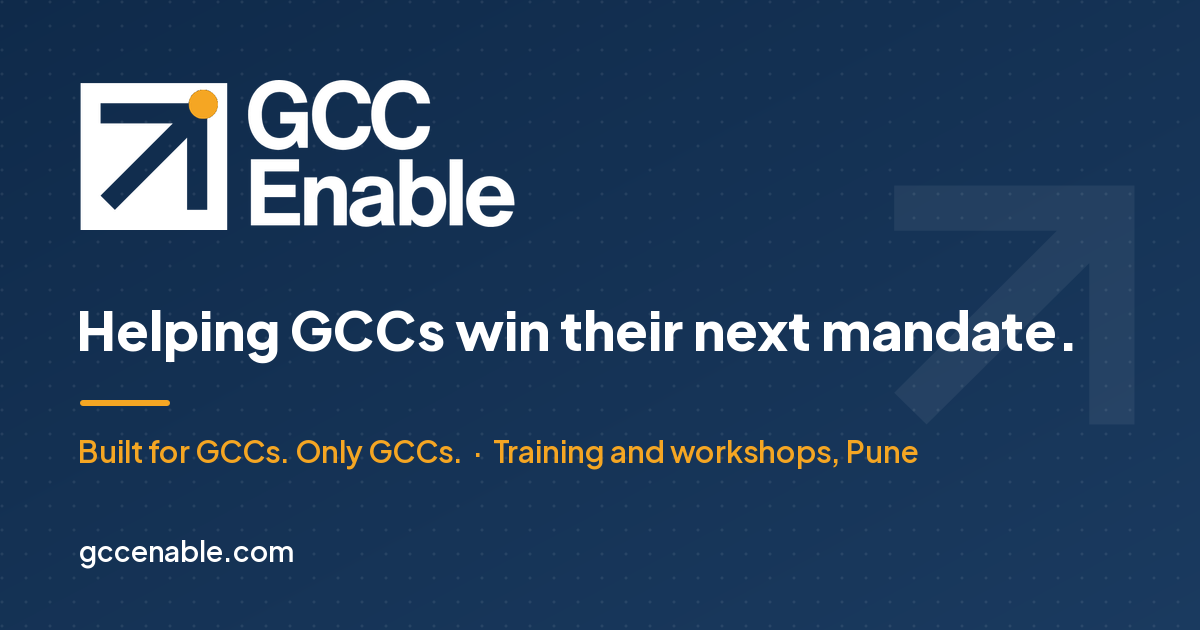
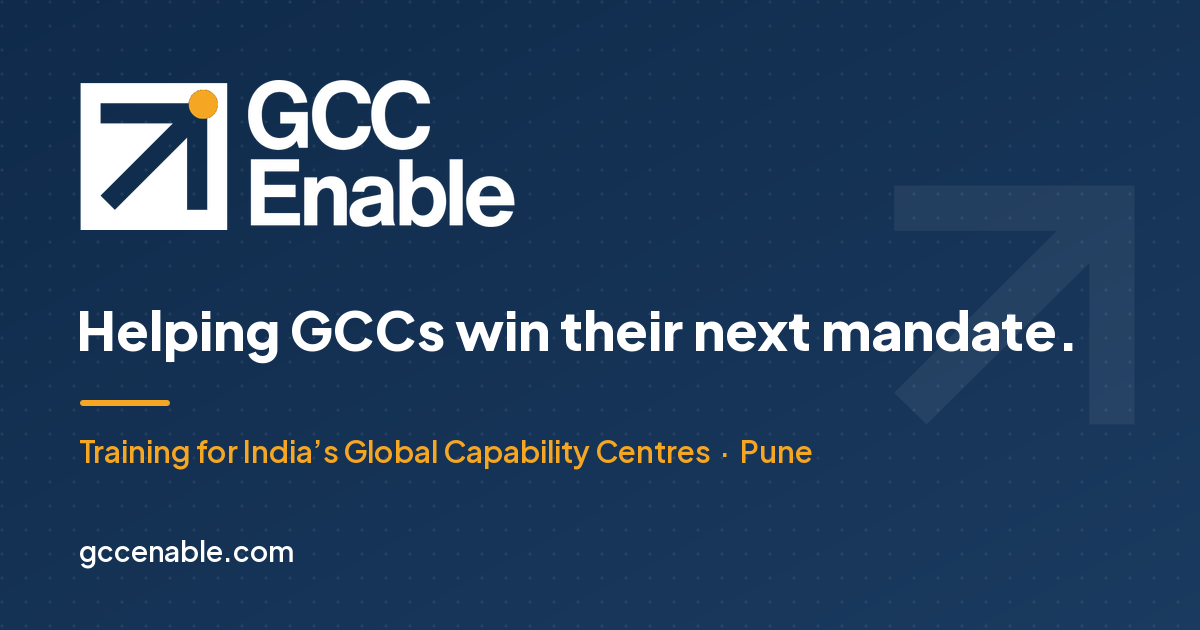
Spell out Global Capability Centres (GCCs) across the site
Home hero, title, top bar, stats, footer, programme and role pages, schema
knowsAbout, share image, and the description plus first mention in every
blog post, so GCC is not read as the Gulf Cooperation Council.

Changed region(s): [[0.0617, 0.6937, 0.7708, 0.754]]

diff --git a/src/data/content.ts b/src/data/content.ts
@@ -28,29 +28,29 @@ export const stats = [
     value: 2100,
     suffix: '+',
     decimals: 0,
-    label: 'GCCs in India, employing 2.36 million people',
+    label: 'Global Capability Centres (GCCs) in India, employing 2.36 million people',
     source: 'nasscom–Zinnov India GCC Landscape Report 2026',
   },
 ];
 
 export const puneStat = {
   value: '270+',
-  label: 'GCCs are based in Pune',
+  label: 'Global Capability Centres (GCCs) are based in Pune',
   source: 'KPMG–AmCham, Jun 2026',
 };
 
 export const home = {
   hero: {
-    tag: 'Training and workshops for India’s GCCs',
+    tag: 'Training for India’s Global Capability Centres',
     title: 'Helping GCCs win their next mandate.',
     subtitle:
-      'Practical training and workshops that build the leaders, managers and AI-ready teams your centre needs to take on bigger global responsibilities.',
-    trust: 'Built for GCCs. Only GCCs. · Based in Pune',
+      'Practical training and workshops that build the leaders, managers and AI-ready teams India’s Global Capability Centres (GCCs) need to take on bigger global responsibilities.',
+    trust: 'Only Global Capability Centres in India · Based in Pune',
   },
   problem: {
     title: 'Your mandate is growing. Is your talent model keeping up?',
     body: [
-      'India’s GCCs are no longer cost centres. HQ is handing over products, platforms and decisions, and expects the centre to lead on AI rather than follow.',
+      'India’s Global Capability Centres (GCCs) are no longer cost centres. HQ is handing over products, platforms and decisions, and expects the centre to lead on AI rather than follow.',
       'That raises the bar for everyone. Leaders need a clear view of AI. Managers need to own outcomes without escalating. New joiners need to perform in months, not quarters. Generic training catalogues were not built for any of this.',
     ],
     pains: [
@@ -99,7 +99,7 @@ export const home = {
   },
   formatsTitle: 'Formats that fit how your centre works',
   insightsTitle: 'From the GCC Enable channel',
-  insightsIntro: 'Short, practical conversations on running and growing a GCC in India.',
+  insightsIntro: 'Short, practical conversations on running and growing a Global Capability Centre (GCC) in India.',
   faqTitle: 'Frequently asked questions',
 };
 
@@ -184,7 +184,7 @@ export const formats = [
 
 export const faqs = [
   {
-    q: 'Do you only work with GCCs?',
+    q: 'Do you only work with Global Capability Centres (GCCs)?',
     a: 'Yes. We work only with Global Capability Centres in India. That focus lets us design for captive-centre realities such as HQ relationships, mandate transfers and the services-to-captive shift, rather than adapting a generic catalogue.',
   },
   {
@@ -218,7 +218,7 @@ export const about = {
     'GCC Enable exists to close that gap. We start in Pune, home to more than 270 GCCs, and work with centres across India.',
   ],
   mission:
-    'Our mission is to help India’s GCCs build the capability to win, and keep, bigger global mandates.',
+    'Our mission is to help India’s Global Capability Centres build the capability to win, and keep, bigger global mandates.',
   founder: {
     name: 'Davis Rajan',
     role: 'Founder, GCC Enable',

diff --git a/BLOG-PLAN.md b/BLOG-PLAN.md
@@ -39,3 +39,4 @@ Topic areas with no post yet come first.
 - **Length:** 850+ words of body copy (run `python scripts/word-count.py`), short paragraphs, 4–6 `##` sections separated by `---` dividers.
 - **Required pieces:** banner (add the slug to `scripts/make-banners.mjs`, then run `node scripts/make-banners.mjs <slug>`), `<KeyTakeaways>` near the top, at least one `<Figure>` diagram (`Steps`, `Compare` or `Timeline`), one mid-article `<Cta programme="…" />` and a closing `<Cta />`.
 - **Spelling:** Indian English (programme, organisation, centre).
+- **Say what GCC means:** "GCC" is also the Gulf Cooperation Council. In the `description` and at the first mention in the body, write **Global Capability Centres (GCCs)**, ideally with "India" nearby. Plain "GCC" is fine after that.
